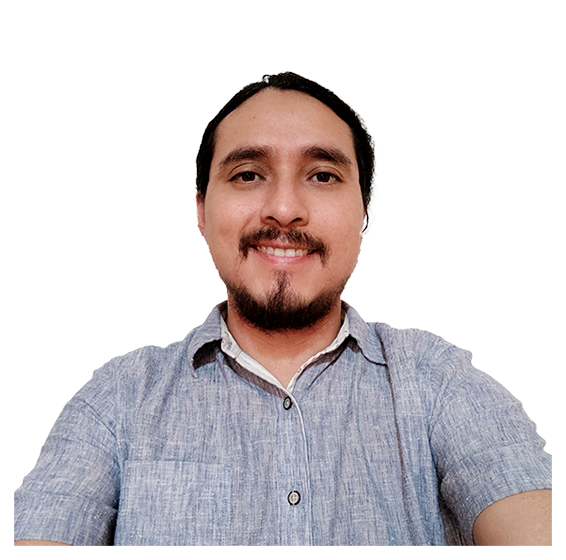
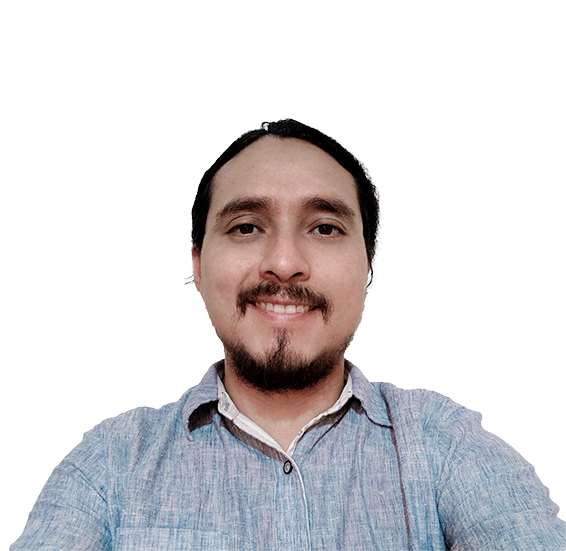
UPDATE profile photo and styling to fit the design

diff --git a/portfolio_front_end/src/container/Header/Header.jsx b/portfolio_front_end/src/container/Header/Header.jsx
@@ -33,8 +33,8 @@ const Header = () => {
             </div>
           </div>
           <div className='tag-cmp app__flex'>
-          <p className='p-text'>Full-Stack Developer</p>
-          <p className='p-text'>Eager to learn new technologies</p>
+          <p className='p-text'>Full-stack Developer</p>
+          <p className='p-text'>Seeking Remote Opportunities</p>
           </div>
         </div>
       </motion.div>

diff --git a/portfolio_front_end/src/container/Header/Header.scss b/portfolio_front_end/src/container/Header/Header.scss
@@ -171,16 +171,17 @@
     width: 100%;
     object-fit: contain;
     z-index: 1;
+    border-radius: 50%;
   }
 
   .overlay_circle {
     position: absolute;
     left: 0;
     right: 0;
-    bottom: 0;
+    bottom: -4%;
     z-index: 0;
     width: 100%;
-    height: 90%;
+    height: 100%;
   }
 
   @media screen and (max-width: 1200px) {
